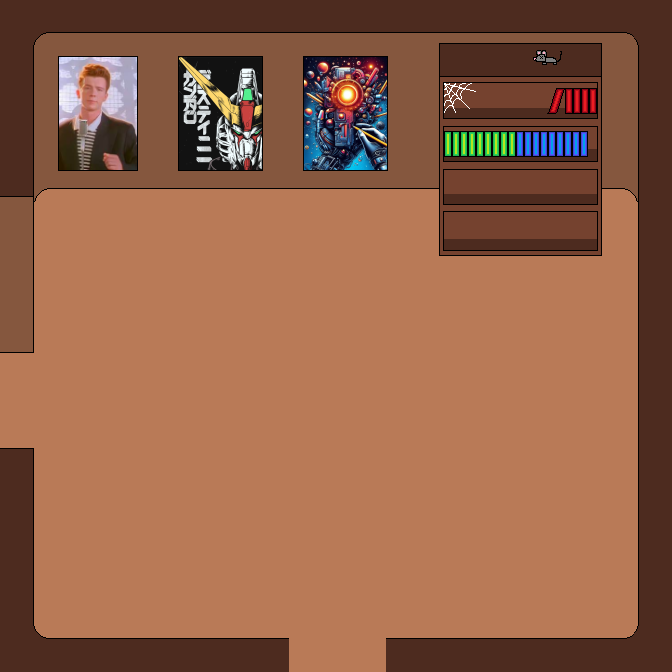
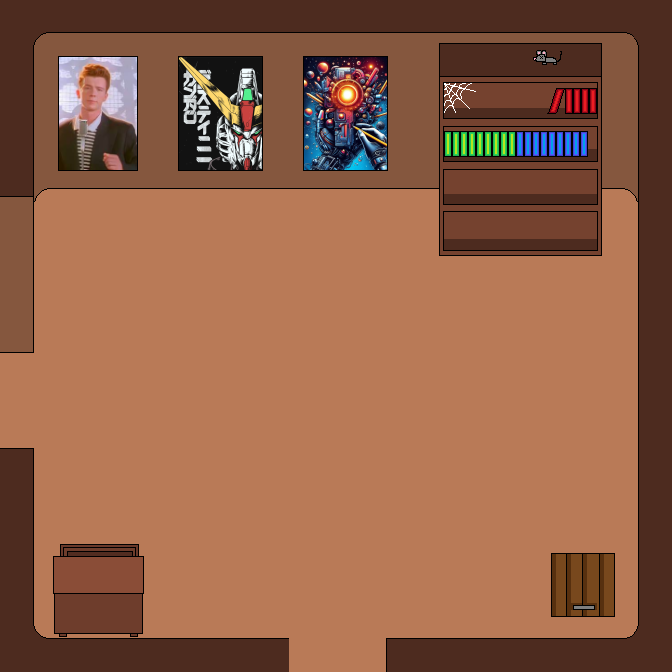
Added Key Hole, no Drawing yet, Made A Open Drawer, and Trap Door unlocjs

Changed region(s): [[0.0625, 0.8125, 0.2188, 0.9688], [0.8125, 0.8125, 0.9375, 0.9375]]

diff --git a/escape_room.java b/escape_room.java
@@ -73,7 +73,7 @@ public class escape_room extends PApplet {
   int intPlayerY = 300;
 	
   // level 7 boolean values
-  boolean blnRickPoster, blnGundamPoster, blnIPoster = false;
+  boolean blnRickPoster, blnGundamPoster, blnIPoster, blnKeyI, blnTrapDoor = false;
 
   // movement booleans 
   boolean blnUp, blnDown, blnLeft, blnRight, blnInteract, blnLeftArrow, blnRightArrow;
@@ -168,15 +168,16 @@ public class escape_room extends PApplet {
 
     if (blnGameStarting == true && intOxygenMeter > 0) {
      
-      StartingScreen();
+      startingScreen();
       drawCollisionMaps();
       playerMovementAndCollisions();
       playerInteractions();
       drawMaps();
       oxygenMeter();
       playerUpdate();
-      MapDrawings();
-      NextLevel();
+      drawPopUps();
+      nextLevel();
+      System.out.println(blnTrapDoor);
 
     } else if (blnGameEnding == true) {
 
@@ -197,7 +198,7 @@ public class escape_room extends PApplet {
 
   }
 
-  public void StartingScreen() {
+  public void startingScreen() {
   
   }
 
@@ -260,7 +261,7 @@ public class escape_room extends PApplet {
    */
   public void playerMovementAndCollisions() {
 
-    if (blnPage == false && blnSafe == false)  {
+    if (blnPage == false && blnSafe == false && blnRickPoster == false && blnGundamPoster == false && blnIPoster == false)  {
       // left player collision detection
       if (blnLeft == true && (get(intPlayerX - 8, intPlayerY + 54) != -1.6777216E7 && get(intPlayerX - 8, intPlayerY + 54) != -16776961)) {
 
@@ -446,57 +447,64 @@ public class escape_room extends PApplet {
 
       } else if (intLevel == 7) {
 
-        if ((intPlayerX > 55 && intPlayerX < 136) && (get(intPlayerX, intPlayerY - 16) == -16776961) || (get(intPlayerX  - 16,intPlayerY - 16) == -16776961)) {
+        if (intPlayerY < 300) {
+          if ((intPlayerX > 50 && intPlayerX < 156) && (get(intPlayerX, intPlayerY - 8) == -16776961)) {
 
-          if (blnRickPoster == false) {
+            if (blnRickPoster == false) {
 
-            blnRickPoster = true;
+              blnRickPoster = true;
+              
+              delay(300);
+
+            } else if (blnRickPoster == true) {
+
+              blnRickPoster = false;
+              delay(300);
+
+            }
+
+          } else if ((intPlayerX > 170 && intPlayerX < 240) && (get(intPlayerX,intPlayerY - 16) == -16776961)) {
+
+            if (blnGundamPoster == false) {
+
+              blnGundamPoster = true;
             
-            delay(300);
+              delay(300);
 
-          } else if (blnRickPoster == true) {
 
-            blnRickPoster = false;
-            delay(300);
+            } else if (blnGundamPoster == true) {
 
-          }
+              blnGundamPoster = false;
+              delay(300);
 
-        } else if ((intPlayerX > 175 && intPlayerX < 260) && (get(intPlayerX,intPlayerY - 16) == -16776961) || (get(intPlayerX - 16,intPlayerY - 16) == -16776961)) {
+            }
 
-          if (blnGundamPoster == false) {
+          } else if ((intPlayerX > 300 && intPlayerX < 380) && (get(intPlayerX,intPlayerY - 8) == -16776961)) {
 
-            blnGundamPoster = true;
+          if (blnIPoster == false) {
+
+            blnIPoster = true;
           
             delay(300);
 
 
-          } else if (blnGundamPoster == true) {
+          } else if (blnIPoster == true) {
 
-            blnGundamPoster = false;
+            blnIPoster = false;
             delay(300);
 
+          } 
 
-          }
+          } 
 
-        } else if ((intPlayerX > 300 && intPlayerX < 386) && (get(intPlayerX,intPlayerY - 16) == -16776961) || (get(intPlayerX - 16,intPlayerY - 16) == -16776961)) {
+        } else if (get(intPlayerX, intPlayerY + 64) == -16776961 || get(intPlayerX + 42, intPlayerY + 64) == - 16776961){
+          
+          blnKeyI = true;
 
-         if (blnIPoster == false) {
-
-          blnIPoster = true;
-        
-          delay(300);
-
-
-         } else if (blnIPoster == true) {
-
-          blnIPoster = false;
-          delay(300);
-
-         } 
-        } else if ((get(intPlayerX, intPlayerY + 56) == -256 || get(intPlayerX + 30, intPlayerY + 56) == -256)) {
+        } else if (blnTrapDoor == true && (get(intPlayerX, intPlayerY + 56) == -256 || get(intPlayerX + 42, intPlayerY + 56) == -256)) {
 
           intLevel += 1;
-          
+            
         }
 
       } else if (intLevel == 10) {
@@ -576,7 +584,7 @@ public class escape_room extends PApplet {
   /**
    * draws the needed pop ups for the map 
    */
-  public void MapDrawings() {
+  public void drawPopUps() {
 
     // checks to see if the level has been completed or not 
     if (intLevel == 1 || intLevel == 0) {
@@ -692,21 +700,28 @@ public class escape_room extends PApplet {
 
         fill(255);
         textSize(20);
-        text("imagine getting rolled", 250, 600);
+        text("imagine getting rick rolled", 215, 500);
         
 
       } else if (blnGundamPoster == true) {
 
         fill(255);
         textSize(20);
-        text("looks like the creator was a gundam fan",125, 600);
+        text("looks like the creator was a gundam fan",150, 500);
            
 
       } else if (blnIPoster == true) {
 
         fill(255);
         textSize(20);
-        text("O, there is an I shaped hole behind this poster", 150, 600);
+        text("You see a bent corner and decide", 150, 500);
+        text("to pull on it revealing a I shaped hole in the wall", 100, 525);
+
+        if (blnKeyI == true) {
+          text("You put in the ''I'' shaped key that you found.", 120, 550);
+          text("Clank, Whirrr, Hummmm, something must of happened", 75, 575);
+          blnTrapDoor = true;
+        }
 
       }
 
@@ -717,7 +732,7 @@ public class escape_room extends PApplet {
   /**
    * detects if the player has completed a level and changes the level map accordingly 
    */
-  public void NextLevel() {
+  public void nextLevel() {
     // allows players to go to the next level once they have completed it
     if ((intLevel == 0 | intLevel == 1) && intPlayerX < 16) {
 
